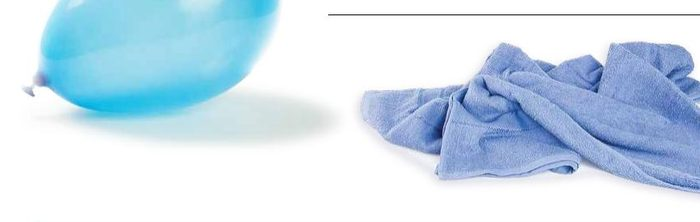
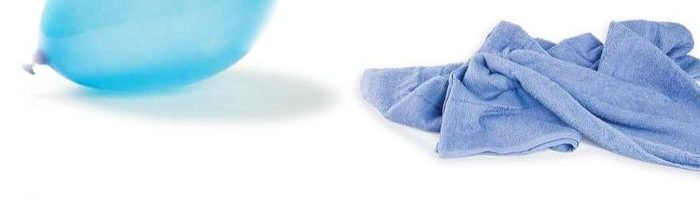
Science Topic 1 Lesson 4: teacher's slides (balloon answer fixed, slides exercise set, current, heat and insulator pictures, page 37 answers)

diff --git a/grade-4/science/topic-1/lesson-4.js b/grade-4/science/topic-1/lesson-4.js
@@ -67,9 +67,9 @@ window.LESSON = {
     {
       t: "The balloon and the towel",
       lines: [
-        "Rub a balloon on a towel.",
-        "Now they have [opposite] charges.",
-        "They [attract]: the balloon sticks to the towel.",
+        "Look: the balloon and the towel stay [apart].",
+        "They do [not] pull toward each other.",
+        "So they do [not] have opposite charges.",
       ],
       img: "balloon",
     },
@@ -78,8 +78,9 @@ window.LESSON = {
       lines: [
         "Charged particles can [move] from place to place.",
         "[Electric current]: charged particles flow in the [same direction].",
+        "[Many] charges flowing = a [large] current. [Few] charges = a [small] current.",
       ],
-      vis: { kind: "emoji", e: "⚡ ➡" },
+      img: "current-sizes",
     },
     {
       t: "Conductors",
@@ -91,13 +92,30 @@ window.LESSON = {
       img: "wires",
     },
     {
+      t: "Metals conduct heat too",
+      lines: [
+        "Heat one end of a metal rod.",
+        "The [heat] moves along the rod: metals let heat flow easily.",
+        "Gold, silver and copper are metals.",
+      ],
+      img: "heat-rod",
+    },
+    {
       t: "Insulators",
       lines: [
         "An [insulator] does [not] let current flow.",
         "[Plastic], [rubber], [wood] and [glass] are insulators.",
         "Plastic covers the copper wire to keep us [safe].",
       ],
-      img: "plastic-coating",
+      vis: {
+        kind: "strip",
+        items: [
+          { img: "plastic-wires", label: "Plastic" },
+          { img: "wood", label: "Wood" },
+          { img: "glass", label: "Glass" },
+          { img: "rubber", label: "Rubber" },
+        ],
+      },
     },
     {
       t: "An electric circuit",
@@ -245,13 +263,6 @@ window.LESSON = {
           two: true,
           x: "[Opposite] charges attract.",
         },
-        {
-          type: "mc",
-          q: "The balloon and the towel have opposite charges. They ___",
-          opts: ["attract", "repel"],
-          two: true,
-          img: "balloon",
-        },
       ],
     },
     {
@@ -336,6 +347,91 @@ window.LESSON = {
   ],
 
   exercises: [
+    {
+      k: "slides",
+      t: "Teacher's slides",
+      en: "Fill in the blanks",
+      ic: "🖥",
+      from: "Teacher's slides · Electric circuits",
+      items: [
+        {
+          type: "mc",
+          q: "When you turn on the light, ___ energy moves.",
+          opts: ["electric", "sound", "chemical"],
+          img: "closed-circuit",
+        },
+        {
+          type: "mc",
+          q: "The flow of electric energy happens because the particles that make up matter ___",
+          opts: ["move", "stop", "melt"],
+          img: "closed-circuit",
+        },
+        {
+          type: "mc",
+          q: "Electric charge is a ___ that causes matter to have a force, called electric force.",
+          opts: ["property", "battery", "switch"],
+          img: "charge-pm",
+        },
+        {
+          type: "mc",
+          q: "Electric charges can be ___",
+          opts: ["positive (+) or negative (−)", "hot or cold", "big or small"],
+          img: "charge-pm",
+        },
+        {
+          type: "mc",
+          q: "Two particles with the [same] charge will ___",
+          opts: ["repel (push)", "attract (pull)"],
+          icons: ["↔", "🧲"],
+          two: true,
+          img: "charge-pp",
+        },
+        {
+          type: "mc",
+          q: "Two particles with [opposite] charges will ___",
+          opts: ["attract (pull)", "repel (push)"],
+          icons: ["🧲", "↔"],
+          two: true,
+          img: "charge-pm",
+        },
+        {
+          type: "mc",
+          q: "Electric forces are the ___ or ___ of charged objects on each other.",
+          opts: ["push … pull", "heat … light", "sound … color"],
+          img: "charge-mp",
+        },
+        {
+          type: "mc",
+          q: "Electric current is the flow of charged particles in the ___ direction.",
+          opts: ["same", "opposite", "every"],
+          img: "current-sizes",
+        },
+        {
+          type: "mc",
+          q: "Conductors are materials that allow ___ to easily flow through them.",
+          opts: ["electric current", "air", "water"],
+          img: "wires",
+        },
+        {
+          type: "mc",
+          q: "Metals are good conductors. For that reason, copper is used to ___",
+          opts: ["make electric wires", "make glass", "make wood"],
+          pics: ["wires", "glass", "wood"],
+        },
+        {
+          type: "multi",
+          q: "Which ones are [insulators]? (choose all)",
+          opts: [
+            { t: "Plastic", img: "plastic-wires", ok: true },
+            { t: "Wood", img: "wood", ok: true },
+            { t: "Glass", img: "glass", ok: true },
+            { t: "Rubber", img: "rubber", ok: true },
+            { t: "Gold", img: "gold" },
+            { t: "Silver", img: "silver" },
+          ],
+        },
+      ],
+    },
     {
       k: "ps-choose",
       t: "Choose",
@@ -596,8 +692,14 @@ window.LESSON = {
         {
           type: "open",
           q: "Why is the inside of an electric wire made of a different material than the outside?",
-          a: "Inside is [copper], a conductor: the current flows. Outside is [plastic], an insulator: it keeps us safe.",
+          a: "The wire must let electric current [flow], but only [in the wire]. The outside covering keeps the current in the wire.",
           img: "wires",
+        },
+        {
+          type: "open",
+          q: "How can you use conductors and insulators to make your vehicle safer?",
+          a: "Design a [warning alarm] that rings when two [conductors] touch and electric current flows to the alarm.",
+          emoji: "🚗 🔔",
         },
         {
           type: "open",
@@ -608,7 +710,7 @@ window.LESSON = {
         {
           type: "open",
           q: "Do you think the balloon and the towel have opposite charges? Why?",
-          a: "[Yes]. They pull together (attract), and opposite charges attract.",
+          a: "[No], they do not have opposite charges, because they are [not attracted] to each other.",
           img: "balloon",
         },
         {
